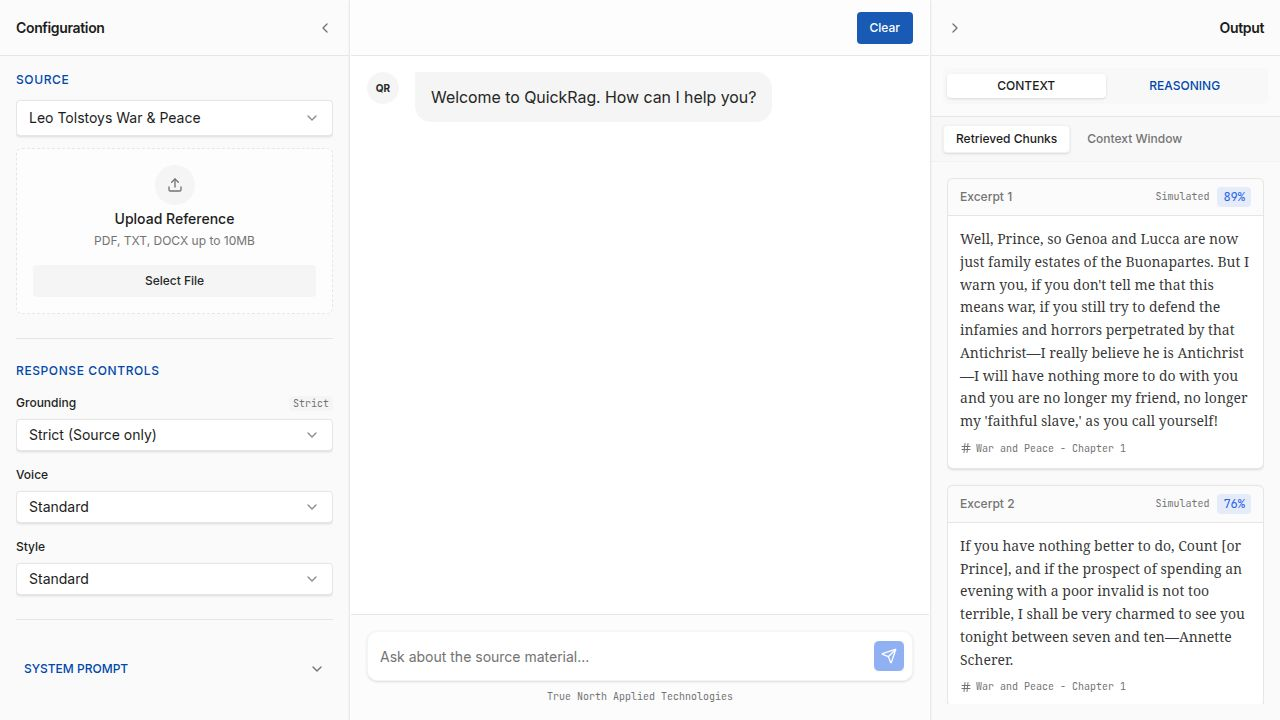
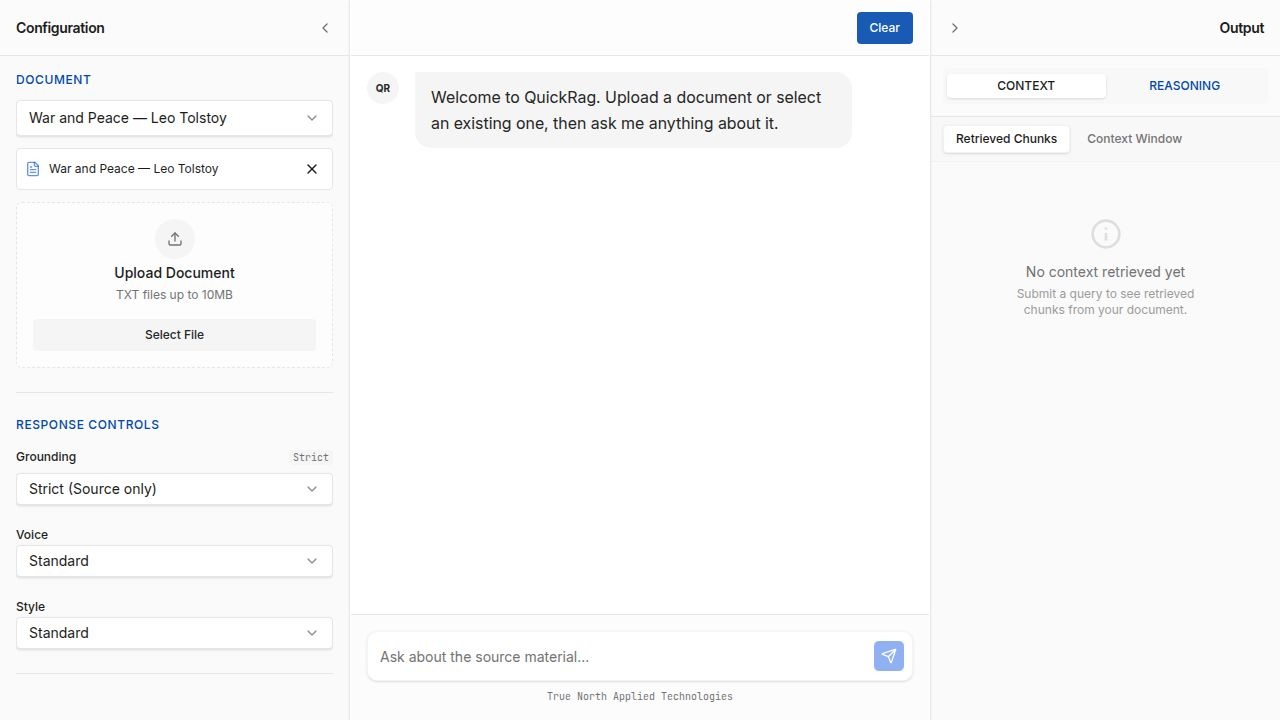
Add source information to document chunks for better context
Update the schema, storage, and RAG logic to include and utilize a 'source' field for each text chunk, enabling better context retrieval and displaying of document origins.

Replit-Commit-Author: Agent
Replit-Commit-Session-Id: dbd0ea1b-b4e4-4467-bb69-363521eb9059
Replit-Commit-Checkpoint-Type: full_checkpoint
Replit-Commit-Event-Id: 848011bc-4db2-4c69-8dc0-02ebc945f33f
Replit-Commit-Screenshot-Url: https://storage.googleapis.com/screenshot-production-us-central1/91f979a2-7d13-41c1-9978-5a1f1f1a4b5b/dbd0ea1b-b4e4-4467-bb69-363521eb9059/3uQNa8N
Replit-Helium-Checkpoint-Created: true

diff --git a/server/seed-war-and-peace.ts b/server/seed-war-and-peace.ts
@@ -1,0 +1,178 @@
+import { db } from "./db";
+import { documents, chunks } from "@shared/schema";
+import { eq } from "drizzle-orm";
+
+const GUTENBERG_URL = "https://www.gutenberg.org/cache/epub/2600/pg2600.txt";
+const DOC_NAME = "War and Peace — Leo Tolstoy";
+const CHUNK_SIZE = 800;
+const OVERLAP = 100;
+
+function chunkChapterText(text: string): string[] {
+  const sentences = text.split(/(?<=[.!?;])\s+/);
+  const result: string[] = [];
+  let current = "";
+
+  for (const sentence of sentences) {
+    if (current.length + sentence.length > CHUNK_SIZE && current.length > 0) {
+      result.push(current.trim());
+      const words = current.split(/\s+/);
+      const overlapWords = words.slice(-Math.ceil(OVERLAP / 5));
+      current = overlapWords.join(" ") + " " + sentence;
+    } else {
+      current += (current ? " " : "") + sentence;
+    }
+  }
+
+  if (current.trim()) {
+    result.push(current.trim());
+  }
+
+  return result;
+}
+
+interface Chapter {
+  book: string;
+  chapter: string;
+  label: string;
+  text: string;
+}
+
+function parseChapters(rawText: string): Chapter[] {
+  const startMarker = "*** START OF THE PROJECT GUTENBERG EBOOK WAR AND PEACE ***";
+  const endMarker = "*** END OF THE PROJECT GUTENBERG EBOOK WAR AND PEACE ***";
+
+  let startIdx = rawText.indexOf(startMarker);
+  if (startIdx === -1) startIdx = 0;
+  else startIdx += startMarker.length;
+
+  let endIdx = rawText.indexOf(endMarker);
+  if (endIdx === -1) endIdx = rawText.length;
+
+  let bodyText = rawText.slice(startIdx, endIdx).trim();
+
+  const bookPattern = /^(BOOK\s+\w+:.*|FIRST EPILOGUE:.*|SECOND EPILOGUE.*)$/m;
+  const firstBookMatch = bodyText.match(bookPattern);
+  if (firstBookMatch && firstBookMatch.index !== undefined) {
+    bodyText = bodyText.slice(firstBookMatch.index);
+  }
+
+  const lines = bodyText.split("\n");
+  const chapters: Chapter[] = [];
+  let currentBook = "";
+  let currentChapter = "";
+  let currentLabel = "";
+  let currentLines: string[] = [];
+
+  for (const line of lines) {
+    const trimmed = line.trim();
+
+    const bookMatch = trimmed.match(/^(BOOK\s+\w+:.*|FIRST EPILOGUE:.*|SECOND EPILOGUE.*)$/);
+    if (bookMatch) {
+      currentBook = bookMatch[1].replace(/\s+/g, " ").trim();
+      continue;
+    }
+
+    const chapterMatch = trimmed.match(/^CHAPTER\s+([IVXLCDM]+|[0-9]+)\s*$/);
+    if (chapterMatch) {
+      if (currentLabel && currentLines.length > 0) {
+        chapters.push({
+          book: currentBook,
+          chapter: currentChapter,
+          label: currentLabel,
+          text: currentLines.join("\n").trim(),
+        });
+      }
+      currentChapter = `Ch. ${chapterMatch[1]}`;
+      currentLabel = `${currentBook} — ${currentChapter}`;
+      currentLines = [];
+      continue;
+    }
+
+    if (currentLabel) {
+      currentLines.push(line);
+    }
+  }
+
+  if (currentLabel && currentLines.length > 0) {
+    chapters.push({
+      book: currentBook,
+      chapter: currentChapter,
+      label: currentLabel,
+      text: currentLines.join("\n").trim(),
+    });
+  }
+
+  return chapters;
+}
+
+async function seed() {
+  console.log("Checking for existing War and Peace document...");
+  const existing = await db.select().from(documents).where(eq(documents.name, DOC_NAME));
+  if (existing.length > 0) {
+    console.log("War and Peace already seeded (document id:", existing[0].id, "). Skipping.");
+    process.exit(0);
+  }
+
+  console.log("Downloading War and Peace from Project Gutenberg...");
+  const response = await fetch(GUTENBERG_URL);
+  if (!response.ok) {
+    console.error("Failed to download:", response.status, response.statusText);
+    process.exit(1);
+  }
+  const rawText = await response.text();
+  console.log(`Downloaded ${(rawText.length / 1024 / 1024).toFixed(1)} MB of text.`);
+
+  console.log("Parsing chapters...");
+  const chapters = parseChapters(rawText);
+  console.log(`Found ${chapters.length} chapters.`);
+
+  const startMarker = "*** START OF THE PROJECT GUTENBERG EBOOK WAR AND PEACE ***";
+  const endMarker = "*** END OF THE PROJECT GUTENBERG EBOOK WAR AND PEACE ***";
+  let startIdx = rawText.indexOf(startMarker);
+  if (startIdx === -1) startIdx = 0; else startIdx += startMarker.length;
+  let endIdx = rawText.indexOf(endMarker);
+  if (endIdx === -1) endIdx = rawText.length;
+  const cleanText = rawText.slice(startIdx, endIdx).trim();
+
+  console.log("Creating document record...");
+  const [doc] = await db.insert(documents).values({
+    name: DOC_NAME,
+    content: cleanText,
+  }).returning();
+  console.log(`Document created with id ${doc.id}.`);
+
+  console.log("Chunking and inserting...");
+  let totalChunks = 0;
+  const BATCH_SIZE = 200;
+
+  for (let ci = 0; ci < chapters.length; ci++) {
+    const chapter = chapters[ci];
+    const chapterChunks = chunkChapterText(chapter.text);
+
+    const values = chapterChunks.map((content, i) => ({
+      documentId: doc.id,
+      content,
+      chunkIndex: totalChunks + i,
+      source: chapter.label,
+    }));
+
+    for (let b = 0; b < values.length; b += BATCH_SIZE) {
+      const batch = values.slice(b, b + BATCH_SIZE);
+      await db.insert(chunks).values(batch);
+    }
+
+    totalChunks += chapterChunks.length;
+
+    if ((ci + 1) % 50 === 0 || ci === chapters.length - 1) {
+      console.log(`  Processed ${ci + 1}/${chapters.length} chapters, ${totalChunks} chunks so far...`);
+    }
+  }
+
+  console.log(`\nDone! Seeded ${totalChunks} chunks across ${chapters.length} chapters.`);
+  process.exit(0);
+}
+
+seed().catch((err) => {
+  console.error("Seed failed:", err);
+  process.exit(1);
+});

diff --git a/server/storage.ts b/server/storage.ts
@@ -9,7 +9,7 @@ export interface IStorage {
   getAllDocuments(): Promise<Document[]>;
   deleteDocument(id: number): Promise<void>;
 
-  createChunks(docId: number, texts: string[]): Promise<Chunk[]>;
+  createChunks(docId: number, texts: string[], sourceLabels?: string[]): Promise<Chunk[]>;
   getChunksByDocument(docId: number): Promise<Chunk[]>;
   searchChunks(docId: number, query: string, topK?: number): Promise<(Chunk & { rank: number })[]>;
 
@@ -42,11 +42,12 @@ class DatabaseStorage implements IStorage {
     await db.delete(documents).where(eq(documents.id, id));
   }
 
-  async createChunks(docId: number, texts: string[]): Promise<Chunk[]> {
+  async createChunks(docId: number, texts: string[], sourceLabels?: string[]): Promise<Chunk[]> {
     const values = texts.map((content, i) => ({
       documentId: docId,
       content,
       chunkIndex: i,
+      source: sourceLabels?.[i] || null,
     }));
     return db.insert(chunks).values(values).returning();
   }
@@ -69,7 +70,7 @@ class DatabaseStorage implements IStorage {
     }
 
     const results = await db.execute(sql`
-      SELECT id, document_id as "documentId", content, chunk_index as "chunkIndex",
+      SELECT id, document_id as "documentId", content, chunk_index as "chunkIndex", source,
         ts_rank_cd(to_tsvector('english', content), to_tsquery('english', ${tsQuery})) as rank
       FROM chunks
       WHERE document_id = ${docId}
@@ -84,6 +85,7 @@ class DatabaseStorage implements IStorage {
         documentId: r.documentId,
         content: r.content,
         chunkIndex: r.chunkIndex,
+        source: r.source || null,
         rank: parseFloat(r.rank),
       }));
     }

diff --git a/server/rag.ts b/server/rag.ts
@@ -55,7 +55,7 @@ export async function retrieveChunks(
       content: c.content,
       chunkIndex: c.chunkIndex,
       score: 0.3,
-      source: `${doc.name} - Chunk ${c.chunkIndex + 1}`,
+      source: c.source || `${doc.name} — Chunk ${c.chunkIndex + 1}`,
     }));
   }
 
@@ -65,7 +65,7 @@ export async function retrieveChunks(
     content: r.content,
     chunkIndex: r.chunkIndex,
     score: Math.min(0.95, 0.5 + (r.rank / maxRank) * 0.45),
-    source: `${doc.name} - Chunk ${r.chunkIndex + 1}`,
+    source: r.source || `${doc.name} — Chunk ${r.chunkIndex + 1}`,
   }));
 }
 

diff --git a/shared/schema.ts b/shared/schema.ts
@@ -15,6 +15,7 @@ export const chunks = pgTable("chunks", {
   documentId: integer("document_id").notNull().references(() => documents.id, { onDelete: "cascade" }),
   content: text("content").notNull(),
   chunkIndex: integer("chunk_index").notNull(),
+  source: text("source"),
 });
 
 export const conversations = pgTable("conversations", {

diff --git a/replit.md b/replit.md
@@ -1,0 +1,49 @@
+# QuickRag
+
+A full-stack RAG (Retrieval-Augmented Generation) chatbot demo built with React + Express + PostgreSQL + OpenAI.
+
+## Architecture
+
+- **Frontend**: React + TypeScript + Vite + Tailwind CSS + shadcn/ui
+- **Backend**: Express on port 5000, serves API + Vite dev middleware
+- **Database**: PostgreSQL via Drizzle ORM
+- **AI**: OpenAI GPT-4o-mini via Replit AI Integrations (env vars `AI_INTEGRATIONS_OPENAI_API_KEY`, `AI_INTEGRATIONS_OPENAI_BASE_URL`)
+- **Retrieval**: PostgreSQL full-text search (ts_vector/ts_query) with keyword fallback — no vector DB required
+
+## Key Files
+
+| File | Purpose |
+|------|---------|
+| `shared/schema.ts` | Drizzle schema: documents, chunks (with source label), conversations, messages |
+| `server/routes.ts` | API routes: documents CRUD, `/api/chat` SSE streaming, `/api/search` |
+| `server/storage.ts` | DatabaseStorage implementing IStorage with FTS search |
+| `server/rag.ts` | chunkText, retrieveChunks, buildSystemPrompt, streamChat, estimateTokens |
+| `server/seed-war-and-peace.ts` | Seed script: downloads full War and Peace from Project Gutenberg, parses 365 chapters, creates ~5,469 overlapping chunks |
+| `client/src/store.ts` | Zustand store: documents, messages, pipeline steps, token tracking |
+| `client/src/components/chat/ChatPanel.tsx` | Chat with real SSE streaming from `/api/chat` |
+| `client/src/components/chat/ControlsPanel.tsx` | Document management, grounding/voice/style selectors |
+| `client/src/components/chat/DebugPanel.tsx` | Retrieved chunks display, pipeline trace, token stats |
+
+## Data Model
+
+- **documents**: id, name, content, createdAt
+- **chunks**: id, documentId (FK), content, chunkIndex, source (nullable label like "BOOK ONE: 1805 — Ch. I")
+- **conversations**: id, title, createdAt
+- **messages**: id, conversationId (FK), role, content, chunksUsed, createdAt
+
+## Chunking Strategy
+
+War and Peace is chunked per-chapter with overlapping, equitably-sized chunks:
+- ~800 chars per chunk, ~100 char overlap
+- Sentence-boundary aware (splits on `.!?;`)
+- Each chunk tagged with source label: `"BOOK X — Ch. Y"`
+- 365 chapters → 5,469 chunks
+
+## Design
+
+- Cobalt blue `#0048ad` primary accent
+- Three-panel layout: Configuration (left), Chat (center), Output (right)
+- Collapsible side panels via chevron toggles
+- Off-white background, Inter + JetBrains Mono fonts
+- Minimal UI — no decorative icons
+- Footer: "True North Applied Technologies"